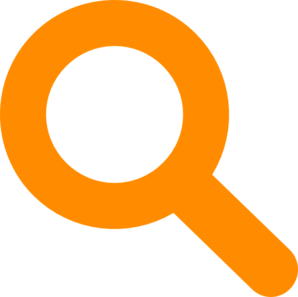
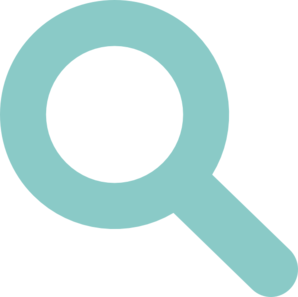
Fixed jorge's ui

diff --git a/temp.css b/temp.css
@@ -1,4 +1,12 @@
-
+:root {
+    --blue-color: #8BCBC8;
+    --icing-color: #DAE9E4;
+    --orange-color: #FDAE84;
+    --sakura-color: #ECC7C0;
+    --cranberry-color: #3C2E3D;
+    --main-color: var(--cranberry-color);
+    --accent-color: var(--orange-color);
+}
 body{
     top:0px;
     left: 0px;
@@ -15,7 +23,7 @@ body{
 
 
 [id="top-border"]{
-    grid-column:1/6;
+    grid-column:1/11;
     grid-row: 1;
 }
 
@@ -23,62 +31,80 @@ body{
 [id="profile_button"]{
     grid-column:1;
     grid-row:4;
-    height: 100%;
-    width: 100%;
+    height: 15vh;
+    width: 15vh;
+    align-self: center;
+    justify-self: center;
     border-radius:50%;
-    background-color: #8BCBC8;
+    border: 5px solid #8BCBC8  !important;
+    background-color: white;
     border-width: 1px;
 }
 [id="search_button"]{
     grid-column:1;
     grid-row:5;
-    height: 100%;
-    width: 100%;
+    height: 15vh;
+    width: 15vh;
+    align-self: center;
+    justify-self: center;
     border-radius:50%;
-    background-color: #8BCBC8;
+    border: 5px solid #8BCBC8  !important;
+    background-color: white;
     border-width: 1px;
 }
 [id="question_button"]{
     grid-column:1;
-    grid-row:6;
-    height: 100%;
-    width: 100%;
+    grid-row:6;/* position: relative;  */
+    height: 15vh;
+    width: 15vh;
+    align-self: center;
+    justify-self: center;
     border-radius:50%;
-    background-color: #8BCBC8;
+    border: 5px solid #8BCBC8  !important;
+    background-color: white;
     border-width: 1px;
 }
 
 [id="knowledge"]{
     grid-column:5;
     grid-row:4;
-    height: 100%;
-    width: 100%;
+    height: 15vh;
+    width: 15vh;
+    align-self: center;
+    justify-self: center;
     border-radius:50%;
-    background-color: #8BCBC8;
+    border: 5px solid #8BCBC8  !important;
+    background-color: white;
     border-width: 1px;
 }
 [id="training"]{
     grid-column:5;
     grid-row:5;
-    height: 100%;
-    width: 100%;
+    height: 15vh;
+    width: 15vh;
+    align-self: center;
+    justify-self: center;
     border-radius:50%;
-    background-color: #8BCBC8;
+    border: 5px solid #8BCBC8  !important;
+    background-color: white;
     border-width: 1px;
 }
 [id="care"]{
     grid-column:5;
     grid-row:6;
-    height: 100%;
-    width: 100%;
+    height: 15vh;
+    width: 15vh;
+    align-self: center;
+    justify-self: center;
     border-radius:50%;
-    background-color: #8BCBC8;
+    border: 5px solid #8BCBC8  !important;
+    background-color: white;
     border-width: 1px;
 }
 
 .img{
-    max-width: 90%;
-    max-height: 90%;
+    max-width: 50%;
+    max-height: 50%;
 }
 
 
@@ -88,8 +114,9 @@ body{
     grid-row: 3/8;
     height:90%;
     width: 100%;
-    background-color: cornflowerblue; 
-    border-radius: 40px;
+    background-color: var(--cranberry-color); 
+    border-radius: 10px;
+    border: 5px solid var(--cranberry-color);
     display: grid;
     grid-template-rows: 5% 30% 30% 30% 5%;
     grid-row-gap: 5px;
@@ -97,38 +124,39 @@ body{
 
 .entry{
     display:grid;
-    grid-template-rows: 15% 70% 15%;
+    grid-template-rows: 0% 100% 0%;
     grid-template-columns: 10% 70% 10% 10%;
 }
 
 [id="first_entry"]{
     grid-row: 2;
     height:100%;
-    background-color:#8BCBC8;
+    background-color: var(--cranberry-color);
 }
 
 [id="second_entry"]{
     grid-row: 3;
     height:100%;
-    background-color: #8BCBC8;
+    background-color: var(--cranberry-color);
 }
 [id="third_entry"]{
     grid-row:4;
-    height:90%;
-    background-color: #8BCBC8;
+    height:100%;
+    background-color: var(--cranberry-color);
 }
 
 .popularity{
-    grid-row: 1;
+    grid-row: 2;
     grid-column: 1;
-    background-color: cornflowerblue; 
+    background-color: var(--blue-color); 
     font-family: 'Helvetica';
     color: white;
     text-align: center;
     font-weight:bold;
-    padding-bottom:2px;
-    font-size: 1.7vw;
-    height: 110%;
+    /* padding-bottom:2px; */
+    font-size: 2.5vw;
+    height: 100%;
+    line-height: 5vw;
 }
 .main_text{
     grid-row: 2;
@@ -140,33 +168,38 @@ body{
     padding-left: 8px;
 }
 .up{
-    grid-row: 3;
-    grid-column: 3;
-    height:100%;
+    grid-row: 2;
+    grid-column: 1;
+    margin-top: 80%;
+    height:25%;
     width: 100%;
-    background-color: #8BCBC8;
-    position: relative;
+    background-color: var(--cranberry-color);
+    position: inline;
     border-width: 1px;
 }
 .down{
-    grid-row: 3;
-    grid-column: 4;
-    height:100%;
+    grid-row: 2;
+    grid-column: 1;
+    margin-top: 117%;
+    height:25%;
     width: 100%;
-    background-color: #8BCBC8;
-    position: relative; 
+    background-color: var(--cranberry-color);
+    /* position: relative;  */
     border-width: 1px;
 }
 .favorite{
-    grid-row: 1;
+    grid-row: 2;
     grid-column: 4;
-    background-color: #8BCBC8;
+    height: 50%;
+    background-color: var(--cranberry-color);
     border-width: 1px;
 }
 .comment{
-    grid-row:3;
-    grid-column:1;
-    background-color: yellow;
+    grid-row:2;
+    grid-column:4;
+    height: 50%;
+    margin-top: 78%;
+    background-color: var(--accent-color);
     border-width: 1px;
 }
 .popularity_num{

diff --git a/qa.html b/qa.html
@@ -76,7 +76,7 @@ FORUM Q&A
 
 
     <button type="button" id="profile_button" class="main_buttons">
-        <img src="img/profile-pic.png" class="img">
+        <img src="img/user.svg" class="img">
     </button>
     <button type="button" id="search_button" class="main_buttons">
         <img src="img/lupa.png" class="img">
@@ -86,19 +86,19 @@ FORUM Q&A
     </button>
 
     <button type="button" id="knowledge" class="main_buttons">
-        <img src="img/general-knowledge.png" class="img">
+        <img src="img/open-book.svg" class="img">
     </button>
     <button type="button" id="training" class="main_buttons">
-        <img src="img/training.png" class="img">
+        <img src="img/dumbbell.svg" class="img">
     </button>
     <button type="button" id="care" class="main_buttons">
-        <img src="img/care.png" class="img">
+        <img src="img/red-cross.svg" class="img">
     </button>
 
     <div id="forum_container">
         <div id="first_entry" class="entry">
             <div id="popularity_1" class="popularity">
-                <p class="popularity_num">58.3K</p>
+                <p class="popularity_num">58K</p>
             </div>
             <div id="main_text_1" class="main_text">
                 <p> Can my doggo have pups with my cat?</p>
@@ -138,7 +138,7 @@ FORUM Q&A
         </div>
         <div id="third_entry" class="entry">
             <div id="popularity_3" class="popularity">
-                <p class="popularity_num">112.9K</p>
+                <p class="popularity_num">-1K</p>
             </div>
             <div id="main_text_3" class="main_text">
                 <p> My doggo barked (1/6)pi^2 when I was summing 1+0.25+0.1111+... is he gonna be allright? </p>
